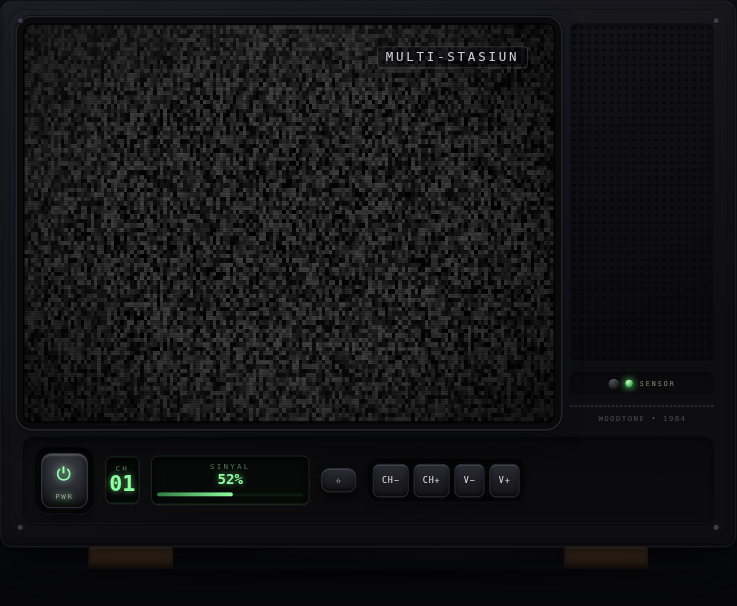
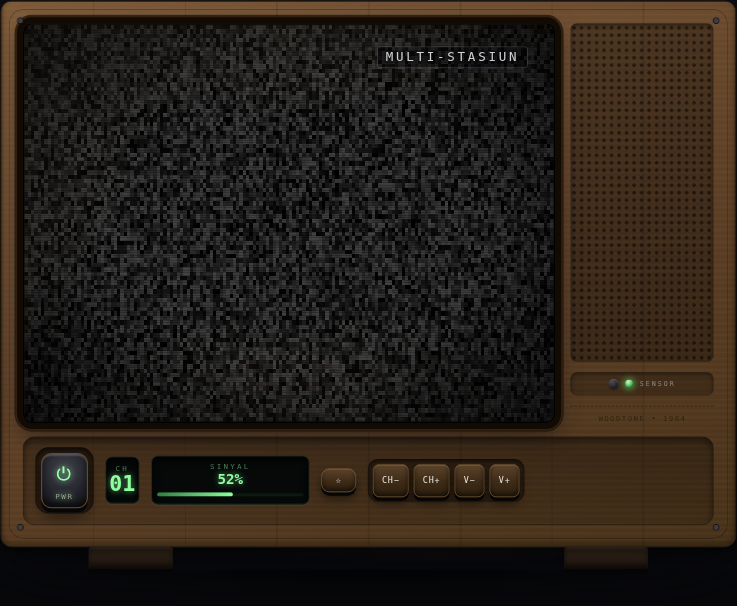
audit siklus 348: review 10/10 model, fix QA wood

diff --git a/test/shapes.js b/test/shapes.js
@@ -17,8 +17,10 @@ const SHAPES = ["trinitron", "toshiba", "polytron", "flatron", "philips", "sharp
         if (b2.getAttribute("data-shape") === sh) b2.click();
       });
       // Flatron otomatis menyetel finish silver (by design) — kembalikan
-      // ke hitam supaya screenshot QA antar-bentuk konsisten.
+      // ke hitam supaya screenshot QA antar-bentuk konsisten; wood
+      // dikembalikan ke kayu supaya kabinet kayunya terlihat.
       if (sh === "flatron") document.querySelector('[data-finish="hitam"]').click();
+      if (sh === "wood") document.querySelector('[data-finish="kayu"]').click();
     }, s);
     await p.waitForTimeout(450);
     const tv = await p.$("#tv");

diff --git a/AUDIT_LOG.md b/AUDIT_LOG.md
@@ -4932,3 +4932,21 @@ Semua commit lokal; tidak ada push/deploy.
 **Total siklus tercatat: 347**
 
 ---
+
+## Siklus 348 — 2026-10-11 00:37 WIB — Review flatron, polytron, wood (10/10 lengkap)
+
+- **Area:** Realisme TV / distinctiveness.
+- **Temuan:** Override QA (siklus 330) membuat wood ter-render
+  hitam — identitas kabinet kayu hilang di screenshot QA.
+- **Perubahan:** `test/shapes.js` — wood dikembalikan ke finish
+  kayu setelah klik (flatron tetap hitam).
+- **Hasil:** Wood: kabinet kayu hangat + kain speaker + kaki balok;
+  flatron: mesh full-height dua sisi + ventilasi atas; polytron:
+  speaker ganda + slot ventilasi. 10/10 model ter-review sesi ini.
+  0 pageerror.
+- **Test:** Regenerasi shapes.js + review visual.
+- **Next:** Regression suite (siklus 348).
+
+**Total siklus tercatat: 348**
+
+---
